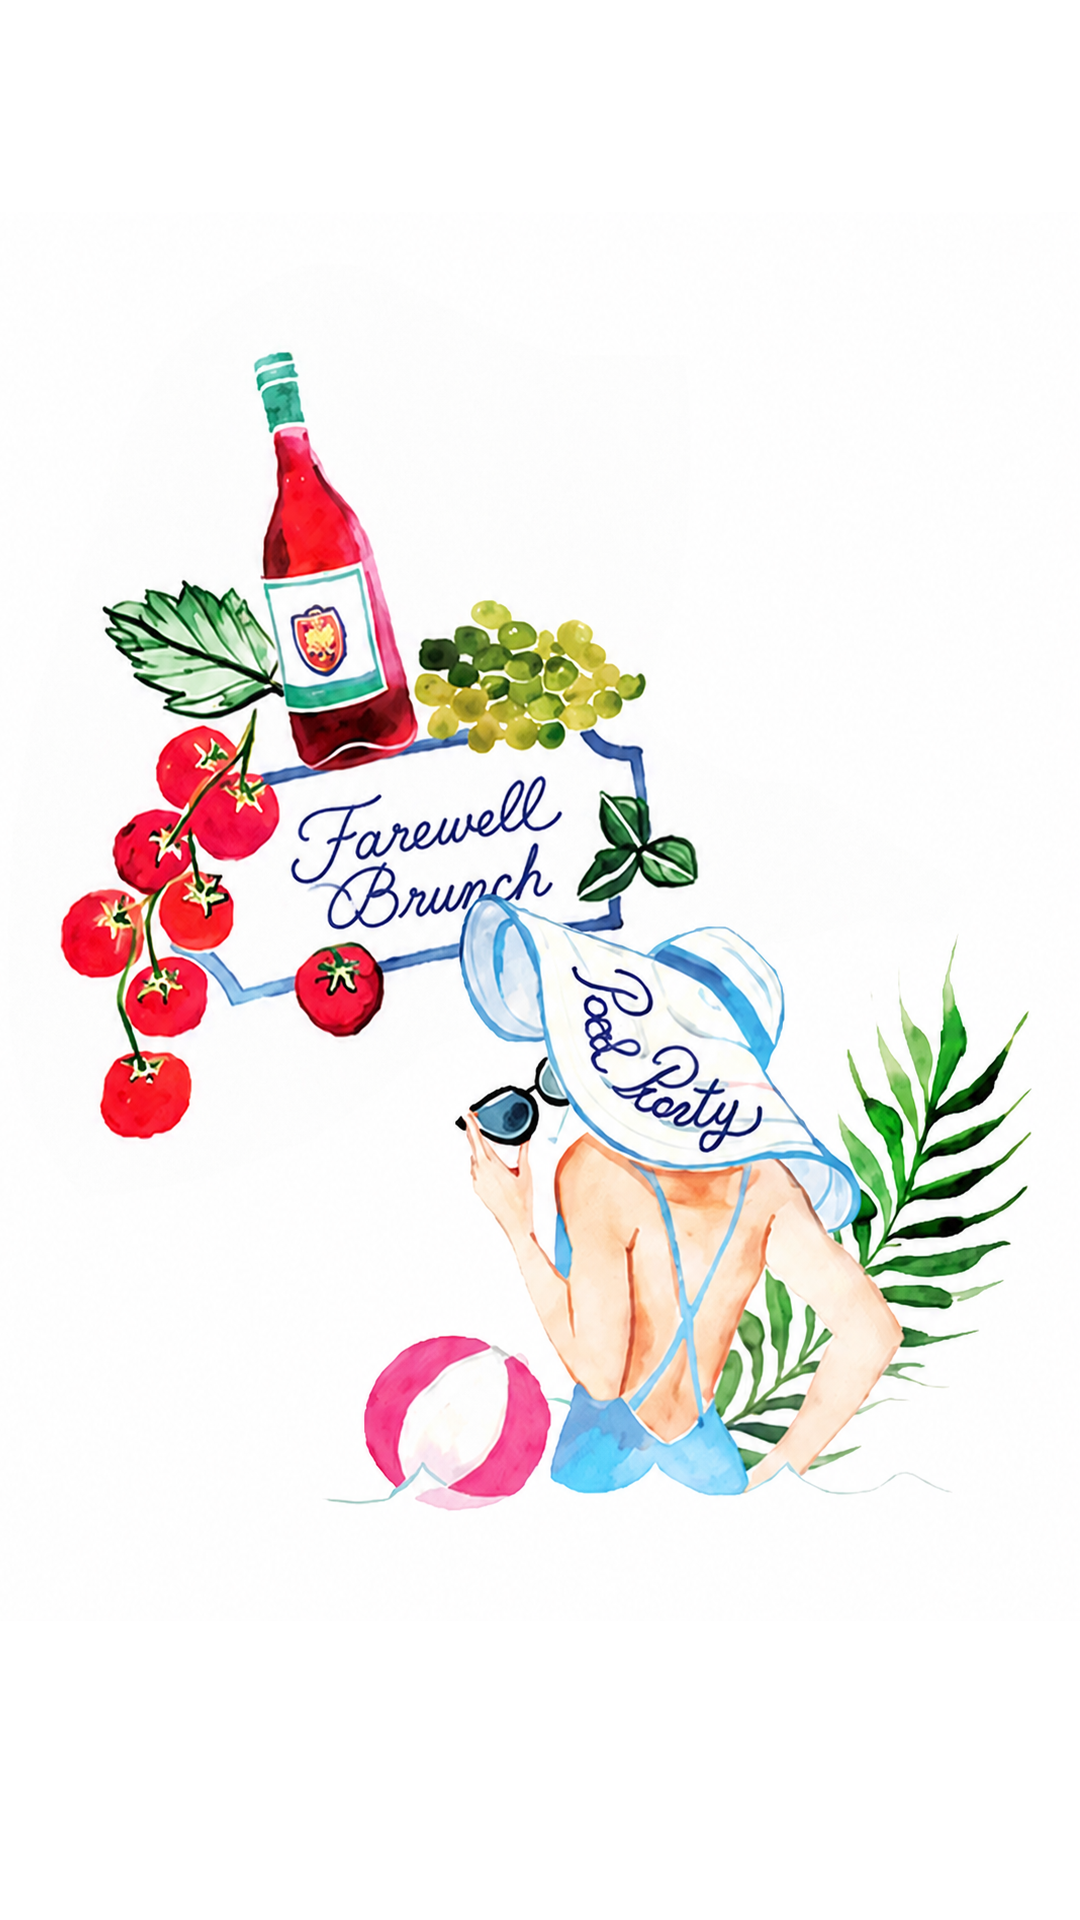
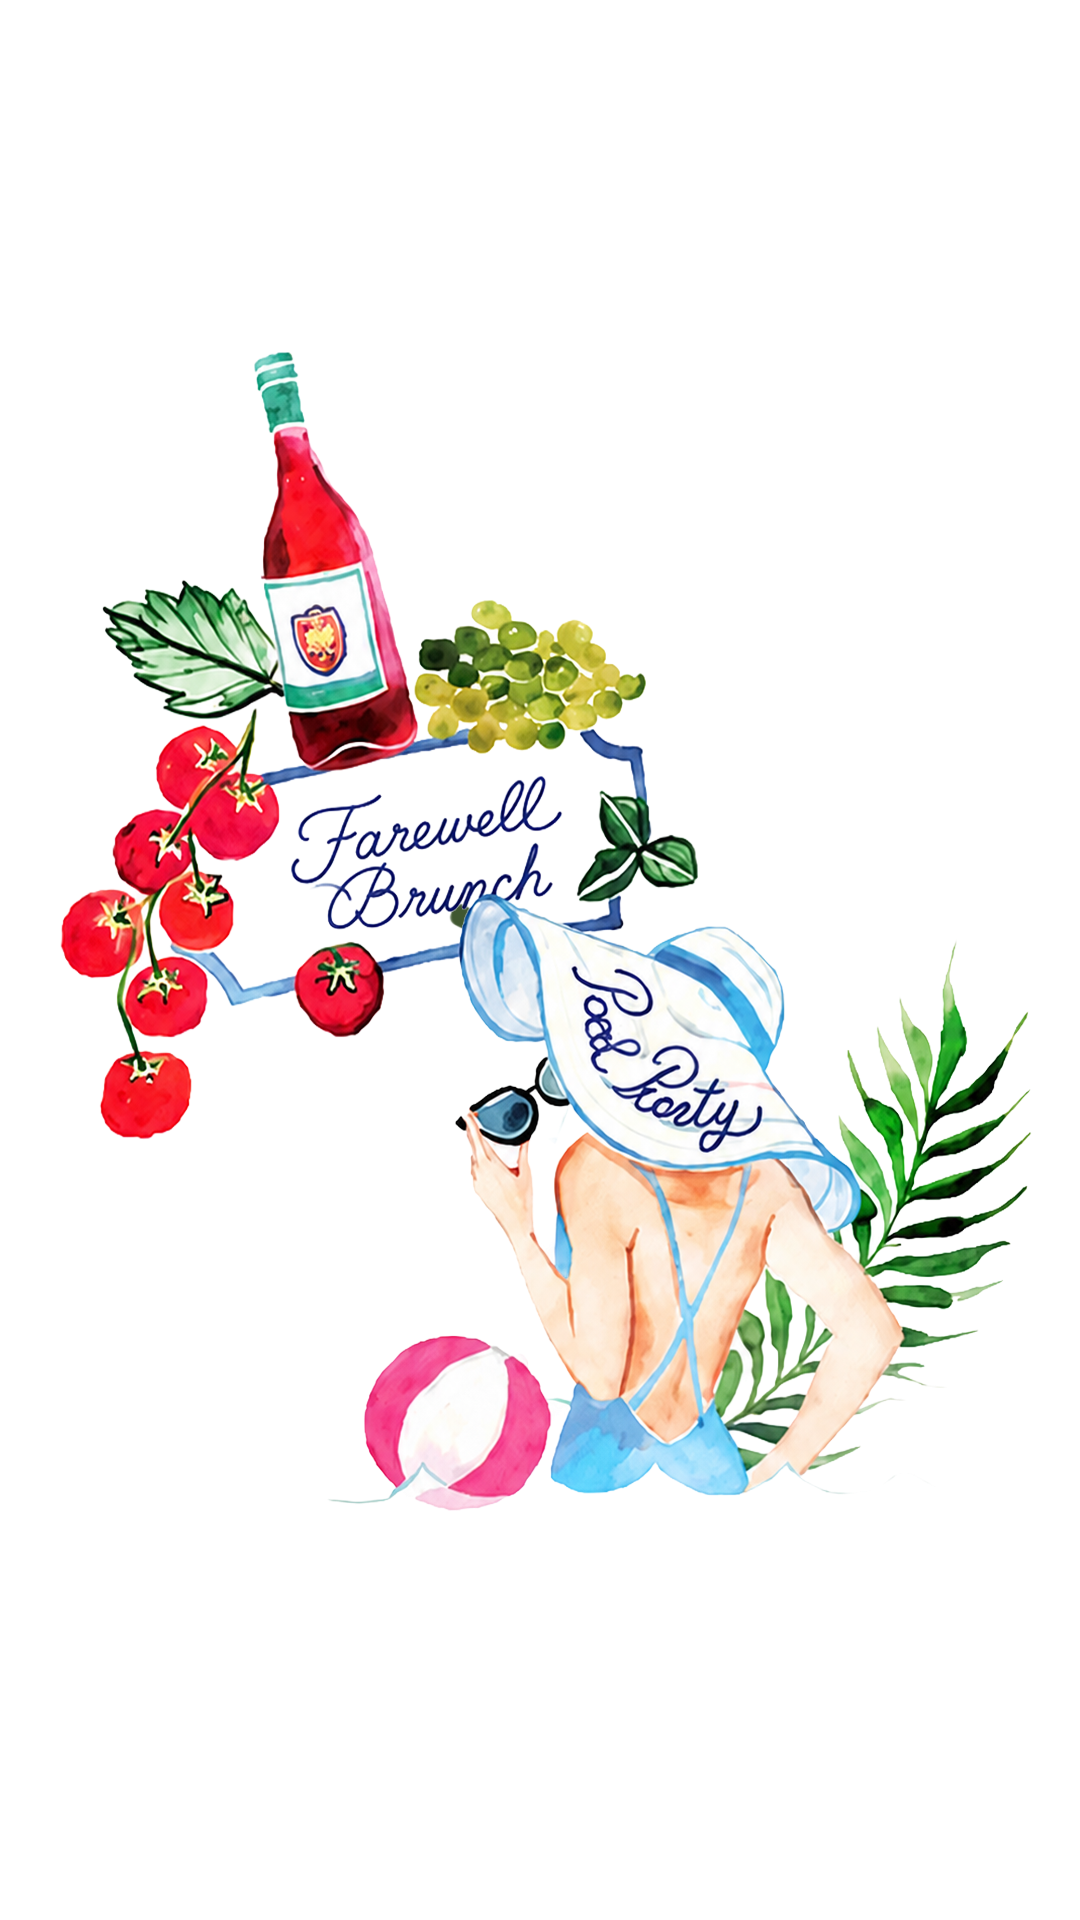
feat: update wedding program details, hero message, and footer branding while refining layout components

Changed region(s): [[0.3972, 0.4688, 0.4278, 0.5], [0.3361, 0.4375, 0.3667, 0.4688]]

diff --git a/src/components/Footer.vue b/src/components/Footer.vue
@@ -1,12 +1,21 @@
+<script setup>
+import logoImage from "../assets/solo_logo.png";
+</script>
+
 <template>
   <footer
     id="contact"
     class="py-32 px-4 bg-primary border-t border-[#3D3D3D]/10"
   >
-    <div class="max-w-7xl mx-auto flex flex-col items-center gap-12" data-aos="fade-up">
-      <h1 class="text-6xl text-center md:text-left text-[#3D3D3D]">
-        Emmet & Marissa
-      </h1>
+    <div
+      class="max-w-7xl mx-auto flex flex-col items-center gap-12"
+      data-aos="fade-up"
+    >
+      <img
+        :src="logoImage"
+        alt="Emmet & Marissa"
+        class="h-48 md:h-60 object-contain"
+      />
 
       <div class="flex flex-col md:flex-row items-center gap-12 text-center">
         <div class="space-y-4">

diff --git a/src/components/Hero.vue b/src/components/Hero.vue
@@ -109,18 +109,21 @@ onUnmounted(() => {
   <section class="bg-primary py-16 px-4">
     <div class="max-w-2xl mx-auto text-center space-y-6" data-aos="fade-up">
       <p
-        class="text-xs md:text-sm tracking-[0.1em] font-menu text-gray-500 uppercase"
+        class="text-md md:text-2xl tracking-[0.5em] font-menu text-gray-500 uppercase"
       >
-        Dear Friends,
+        Benvenuti!
       </p>
       <p
         class="text-lg md:text-xl font-title leading-relaxed text-[#3D3D3D]/80"
       >
-        We are delighted to share with you the program for our celebration
-        weekend this August in Florence, Italy. <br class="hidden md:block" />
-        Please note that we are arranging all transfers to and from the
-        celebration venues <br class="hidden md:block" />
-        (Welcome Dinner, Wedding Party, and Brunch).
+        Thank you for being part of this special chapter in our lives and for
+        traveling to celebrate our Marriage with us. We are so excited to
+        welcome you to Florence, a city that holds a special place in our
+        hearts. Having you here means the world to us. We look forward to
+        creating unforgettable memories together as we begin this next chapter
+        in our lives. Thank you for being part of our story and for joining us
+        in Florence to share in this unforgettable weekend.<br /><br />Con
+        Amore,<br />Marissa & Emmet
       </p>
     </div>
   </section>

diff --git a/src/components/Program.vue b/src/components/Program.vue
@@ -15,7 +15,7 @@ const days = [
         location:
           "Palazzo Gondi\nPiazza San Firenze 1–2\n50122 Florence, Italy",
         description:
-          "Join us for an evening at the magnificent Palazzo Gondi as we welcome family and friends to Florence and begin our wedding celebrations together.",
+          "Join us for an evening at the magnificent Palazzo Gondi as we welcome family and friends to Florence and begin our wedding celebrations together.\n\nAttire: Florentine elegance.",
       },
     ],
     image: welcomeImage,
@@ -30,7 +30,7 @@ const days = [
         location:
           "Chiesa dei Santi Michele e Gaetano\nPiazza degli Antinori, 1\n50123 Florence, Italy",
         description:
-          "We are honored to celebrate our marriage at the beautiful Church of Saints Michael and Gaetano, one of Florence's most treasured Baroque churches.\n\nFollowing the ceremony, guests are invited to continue the celebrations at Villa Mangiacane in the heart of the Tuscan countryside.\n\nTransportation will be provided from the church to Villa Mangiacane and, at the conclusion of the evening, from Villa Mangiacane back to guests' accommodations.",
+          "We are honored to celebrate our marriage at the beautiful Church of Saints Michael and Gaetano, one of Florence's most treasured Baroque churches.\n\nFollowing the ceremony, guests are invited to continue the celebrations at Villa Mangiacane in the heart of the Tuscan countryside.\n\nAttire: Black Tie Optional\n\nTransportation will be provided from the church to Villa Mangiacane and, at the conclusion of the evening, from Villa Mangiacane back to guests' accommodations.",
       },
       {
         title: "Wedding Reception & After-Party",
@@ -52,7 +52,7 @@ const days = [
         location:
           "Villa Mangiacane\nVia Faltignano,4\n50026 San Casciano in Val di Pesa, Italy",
         description:
-          "Before we part ways, please join us for a fun and relaxed poolside brunch as we celebrate one final time together.\n\n* To ensure a seamless experience, complimentary transportation will be provided to and from the event venues. Detailed transfer schedules will be shared with guests closer to the wedding date.*",
+          "Before we part ways, please join us for a fun and relaxed poolside brunch as we celebrate one final time together.\n\n* To ensure a seamless experience, complimentary transportation will be provided to and from the event venues. Detailed transfer schedules will be shared with guests closer to the wedding date.*\n\nAttire: Tuscany Resort Chic",
       },
     ],
     image: brunchImage,
@@ -201,8 +201,12 @@ onUnmounted(() => {
             <div class="hidden md:block w-px h-full"></div>
 
             <!-- Image Column -->
-            <div class="w-full md:w-1/2" data-aos="fade-up" data-aos-delay="200">
-              <div class="relative overflow-hidden shadow-sm group">
+            <div
+              class="w-full md:w-1/2"
+              data-aos="fade-up"
+              data-aos-delay="200"
+            >
+              <div class="relative overflow-hidden group">
                 <img
                   :src="day.image"
                   :alt="'Day ' + day.day"

diff --git a/src/components/Navigation.vue b/src/components/Navigation.vue
@@ -7,7 +7,6 @@ const navLeft = [
   { name: "HOME", href: "/#welcome" },
   { name: "RSVP", href: "/#rsvp" },
   { name: "SCHEDULE OF EVENTS", href: "/#program" },
-  { name: "ATTIRE", href: "/#dresscode" },
 ];
 
 const navRight = [
@@ -137,9 +136,7 @@ const isMenuOpen = ref(false);
 
           <!-- Decorative Element -->
           <div class="mt-12 opacity-30 shrink-0">
-            <span
-              class="block w-3 h-3 rotate-45 bg-text rounded-sm"
-            ></span>
+            <span class="block w-3 h-3 rotate-45 bg-text rounded-sm"></span>
           </div>
         </div>
       </transition>

diff --git a/src/components/DressCode.vue b/src/components/DressCode.vue
@@ -25,9 +25,7 @@ const codes = [
   <section id="dresscode" class="py-32 px-4 bg-primary">
     <div class="max-w-7xl mx-auto">
       <div class="text-center mb-16" data-aos="fade-up">
-        <h2 class="text-6xl md:text-8xl text-[#3D3D3D]">
-          Dress Code
-        </h2>
+        <h2 class="text-6xl md:text-8xl text-[#3D3D3D]">Dress Code</h2>
       </div>
 
       <div class="grid grid-cols-1 md:grid-cols-3 gap-16 md:gap-24">